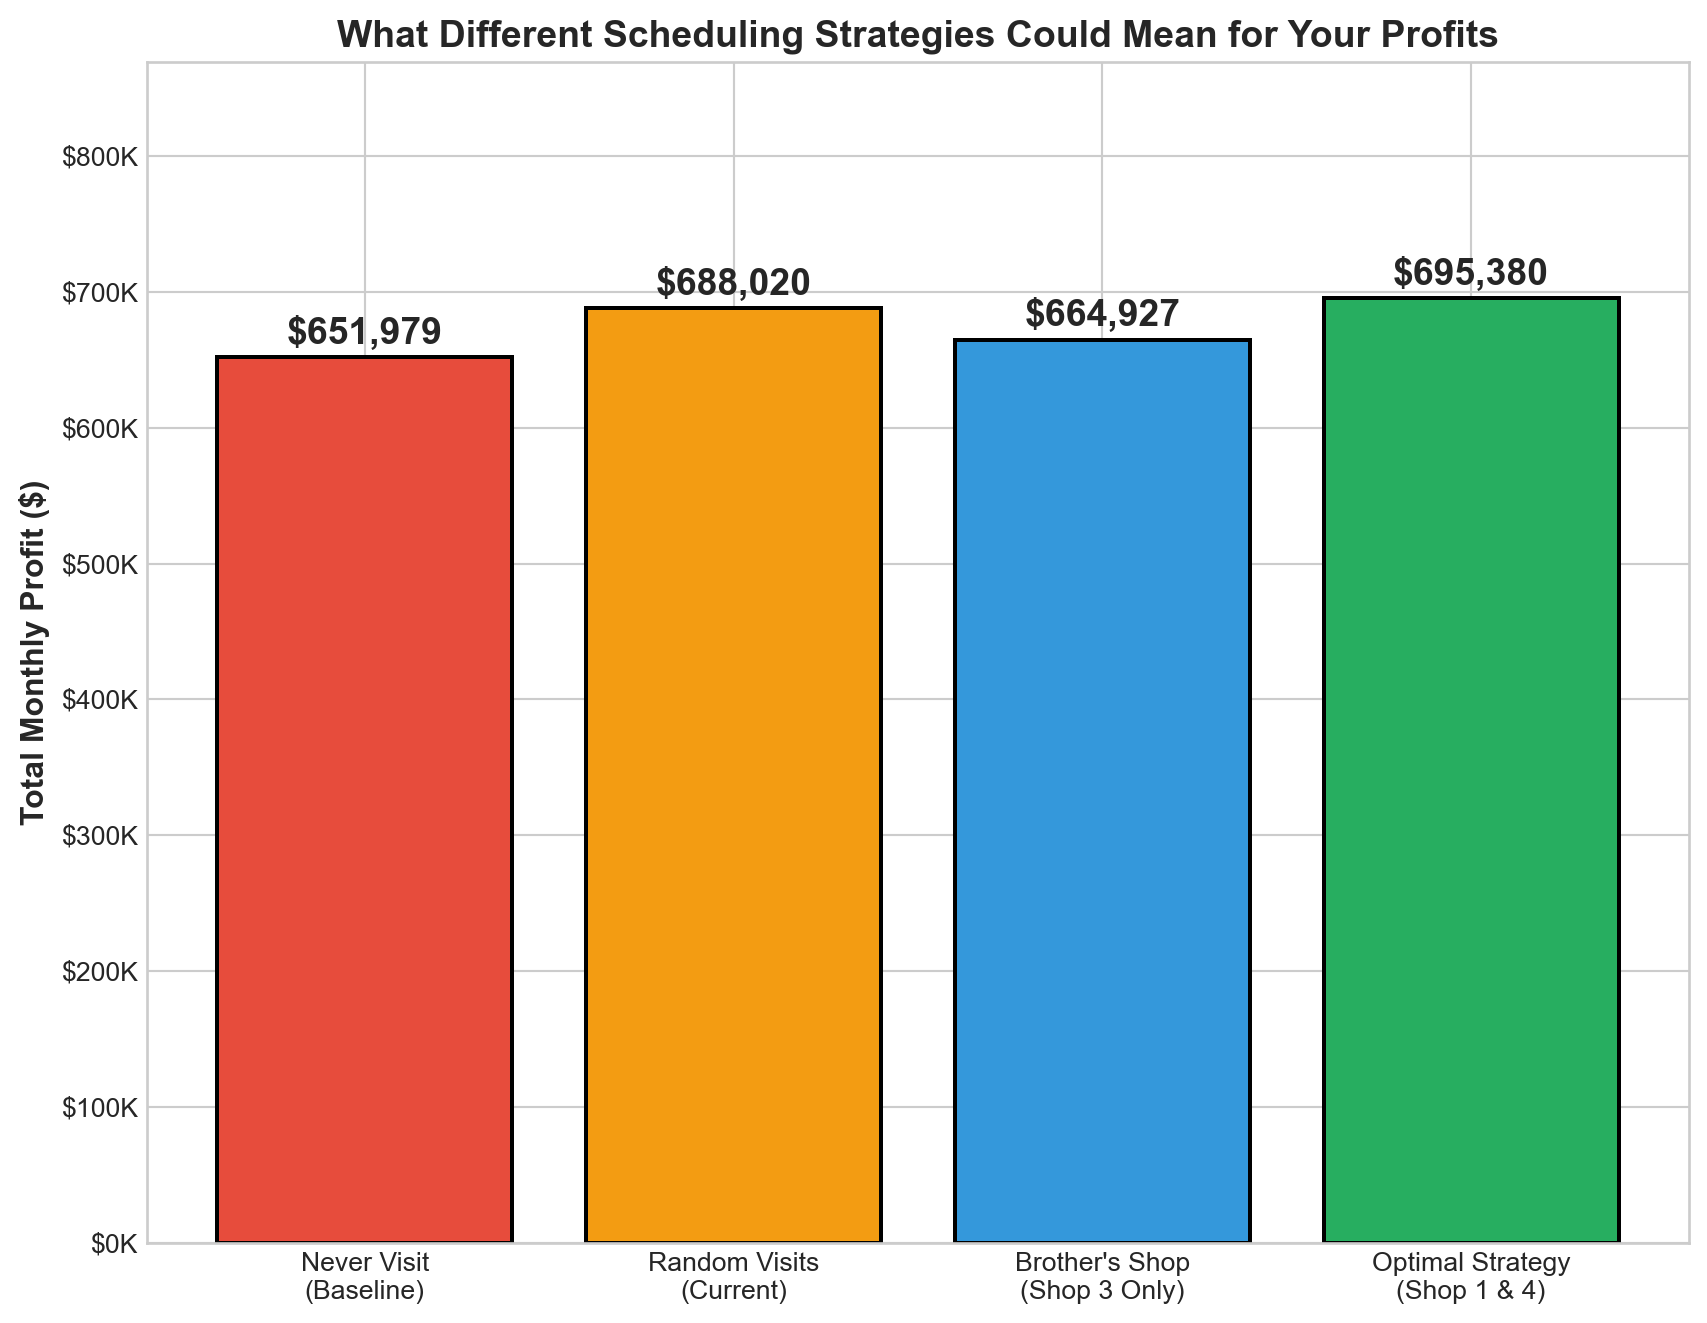
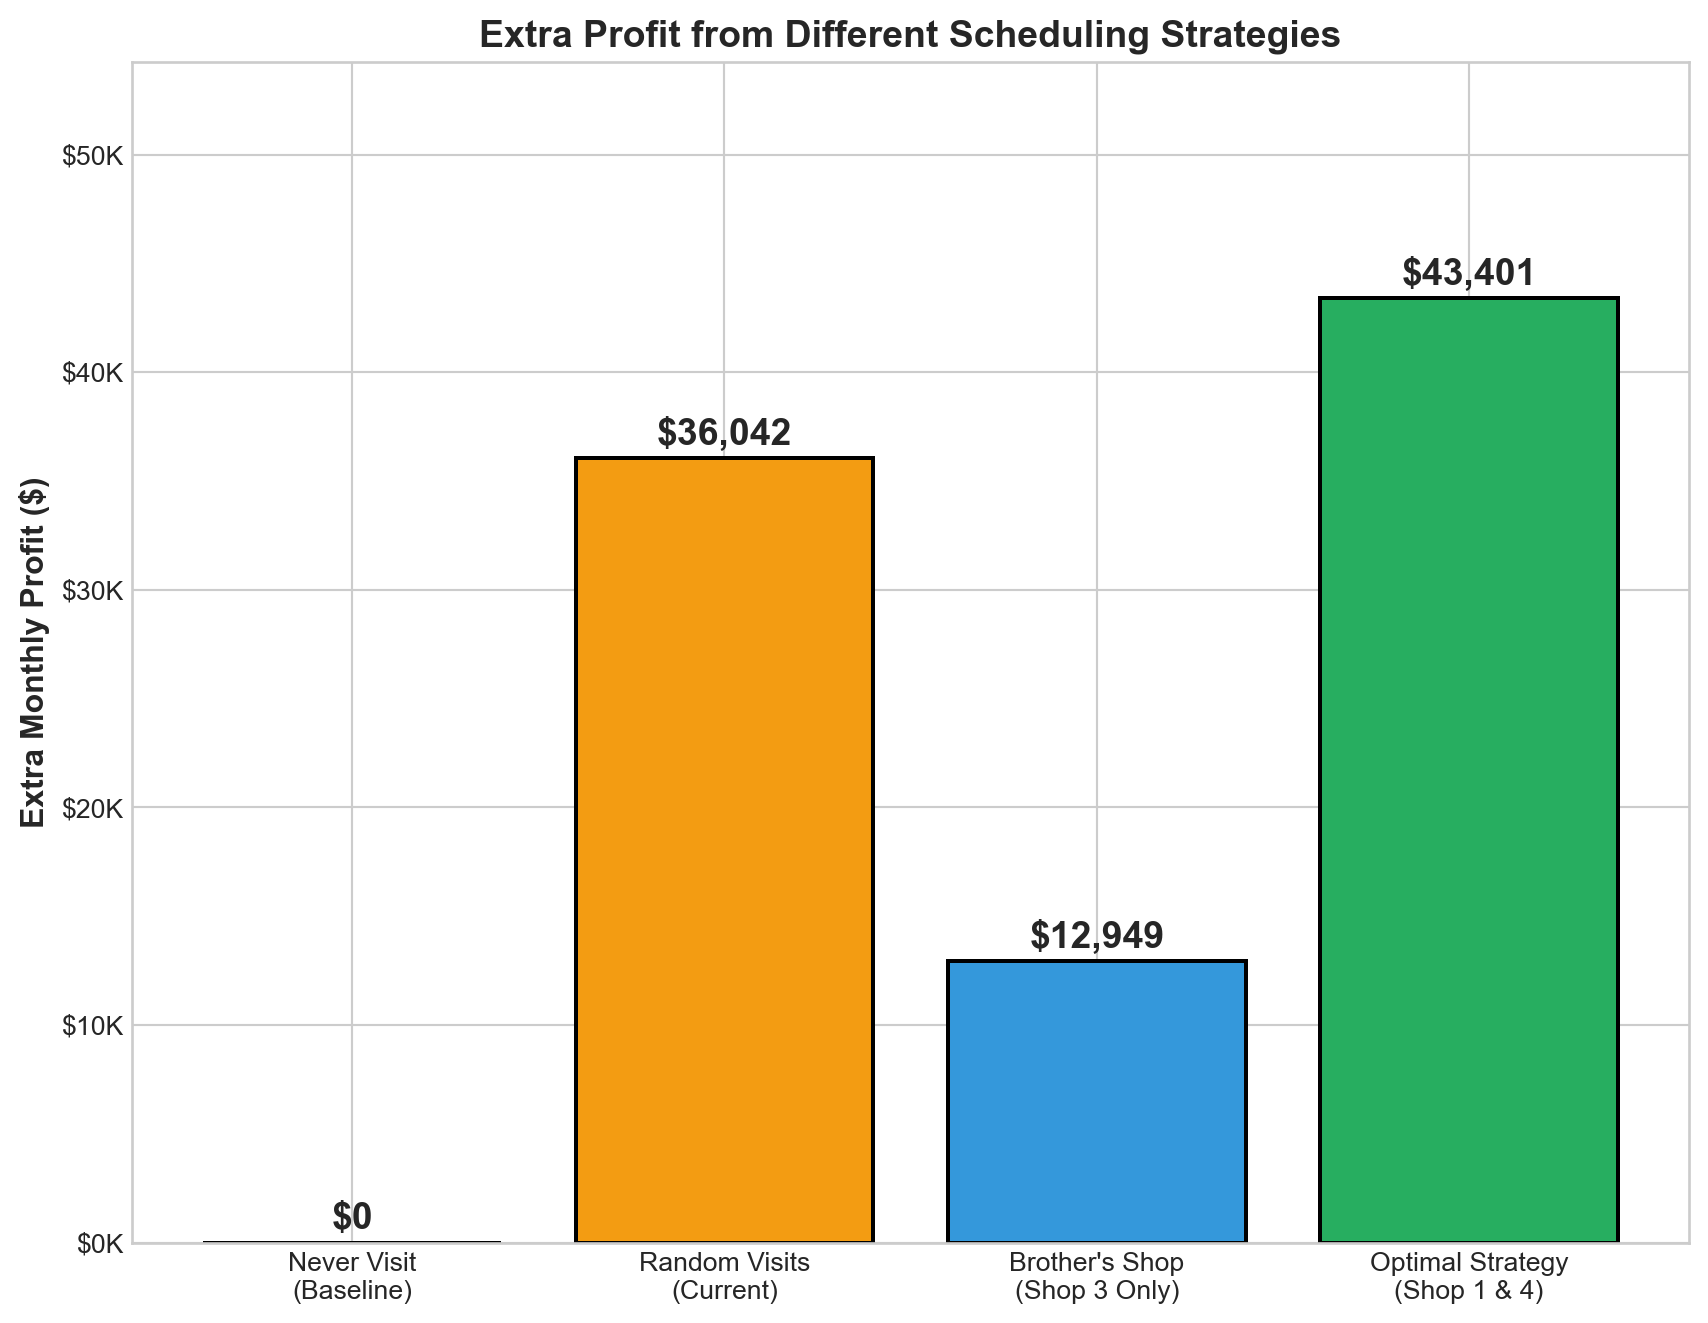
Render index.qmd

diff --git a/index.html b/index.html
@@ -103,7 +103,7 @@ ul.task-list li input[type="checkbox"] {
 <section id="what-the-data-shows" class="level2">
 <h2 class="anchored" data-anchor-id="what-the-data-shows">What the Data Shows</h2>
 <p>We analyzed 250 days of productivity data across your 5 shops. Here’s every single day plotted—you can see the pattern clearly:</p>
-<div id="e08e839e" class="cell" data-fig-height="6" data-fig-width="8" data-execution_count="2">
+<div id="8e88cad1" class="cell" data-fig-height="6" data-fig-width="8" data-execution_count="2">
 <div class="cell-output cell-output-display">
 <div class="quarto-figure quarto-figure-center">
 <figure class="figure">
@@ -119,7 +119,7 @@ ul.task-list li input[type="checkbox"] {
 <section id="d-view-shop-performance-landscape" class="level2">
 <h2 class="anchored" data-anchor-id="d-view-shop-performance-landscape">3D View: Shop Performance Landscape</h2>
 <p>Here’s an interactive 3D perspective showing all three dimensions at once—Shop ID, your presence status, and cars fixed:</p>
-<div id="d4e3a19c" class="cell" data-fig-height="8" data-fig-width="10" data-execution_count="3">
+<div id="b6273afd" class="cell" data-fig-height="8" data-fig-width="10" data-execution_count="3">
 <div class="cell-output cell-output-display">
 <div class="quarto-figure quarto-figure-center">
 <figure class="figure">
@@ -135,7 +135,7 @@ ul.task-list li input[type="checkbox"] {
 <section id="the-boss-boost-effect" class="level2">
 <h2 class="anchored" data-anchor-id="the-boss-boost-effect">The “Boss Boost” Effect</h2>
 <p>Here’s the real question: <strong>How many extra cars get fixed when you’re at each shop?</strong></p>
-<div id="adddfec6" class="cell" data-fig-height="5" data-fig-width="9" data-execution_count="4">
+<div id="7e6364fd" class="cell" data-fig-height="5" data-fig-width="9" data-execution_count="4">
 <div class="cell-output cell-output-display">
 <div class="quarto-figure quarto-figure-center">
 <figure class="figure">
@@ -192,7 +192,7 @@ ul.task-list li input[type="checkbox"] {
 <section id="how-confident-can-you-be" class="level2">
 <h2 class="anchored" data-anchor-id="how-confident-can-you-be">How Confident Can You Be?</h2>
 <p><strong>The honest truth:</strong> We only have 250 days of data, and you weren’t at every shop equally. Here’s what that means:</p>
-<div id="8da4a138" class="cell" data-fig-height="3" data-fig-width="6" data-execution_count="5">
+<div id="6121c30e" class="cell" data-fig-height="3" data-fig-width="6" data-execution_count="5">
 <div class="cell-output cell-output-display">
 <div class="quarto-figure quarto-figure-center">
 <figure class="figure">
@@ -219,12 +219,12 @@ ul.task-list li input[type="checkbox"] {
 <section id="the-money-question" class="level2">
 <h2 class="anchored" data-anchor-id="the-money-question">The Money Question 💰</h2>
 <p>Let’s say each car fixed earns you <strong>$200 in profit</strong>. Here’s what different scheduling strategies could mean for your wallet:</p>
-<div id="69853d75" class="cell" data-fig-height="7" data-fig-width="9" data-execution_count="6">
+<div id="9e653ad2" class="cell" data-fig-height="7" data-fig-width="9" data-execution_count="6">
 <div class="cell-output cell-output-display">
 <div class="quarto-figure quarto-figure-center">
 <figure class="figure">
 <p><img src="index_files/figure-html/cell-7-output-1.png" width="854" height="662" class="figure-img"></p>
-<figcaption>Projected monthly profit under different scheduling strategies</figcaption>
+<figcaption>Extra monthly profit above baseline under different scheduling strategies</figcaption>
 </figure>
 </div>
 </div>
@@ -304,7 +304,7 @@ ul.task-list li input[type="checkbox"] {
 </section>
 <section id="one-final-chart-your-projected-year" class="level3">
 <h3 class="anchored" data-anchor-id="one-final-chart-your-projected-year">One Final Chart: Your Projected Year</h3>
-<div id="052476a6" class="cell" data-fig-height="5" data-fig-width="8" data-execution_count="7">
+<div id="8ae3d2c4" class="cell" data-fig-height="5" data-fig-width="8" data-execution_count="7">
 <div class="cell-output cell-output-display">
 <div class="quarto-figure quarto-figure-center">
 <figure class="figure">
